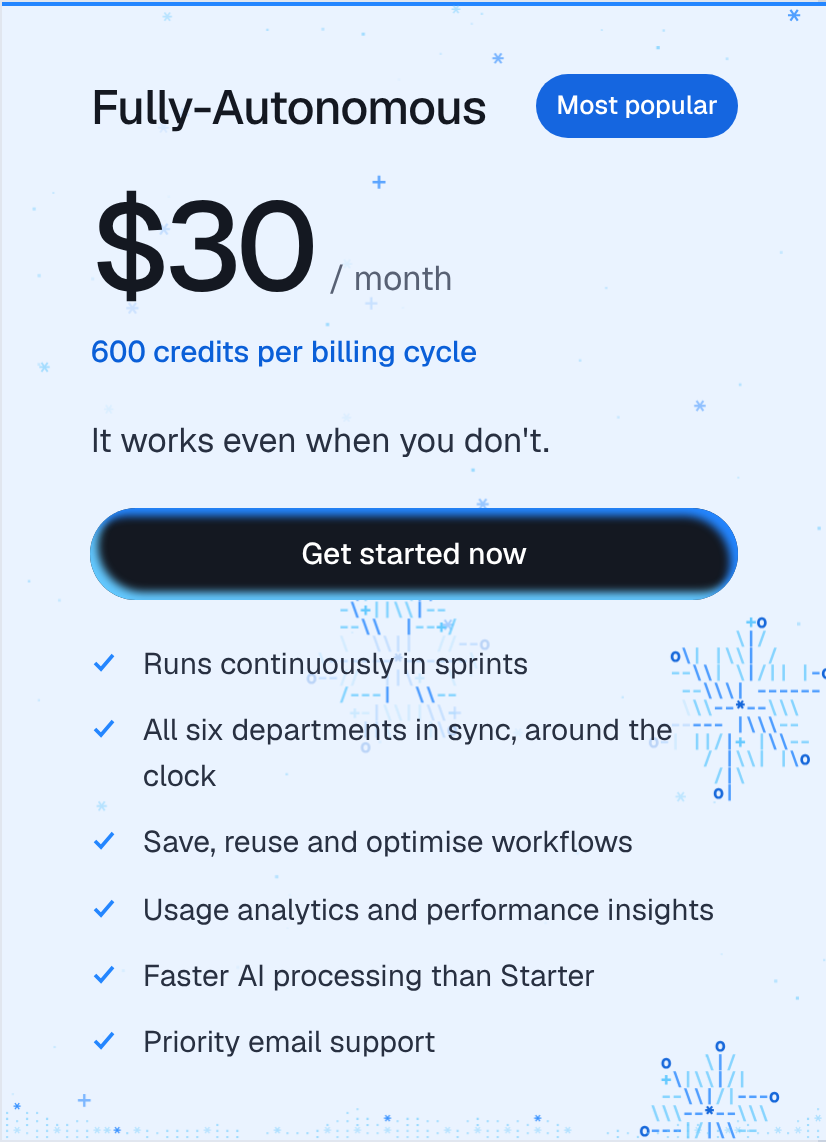
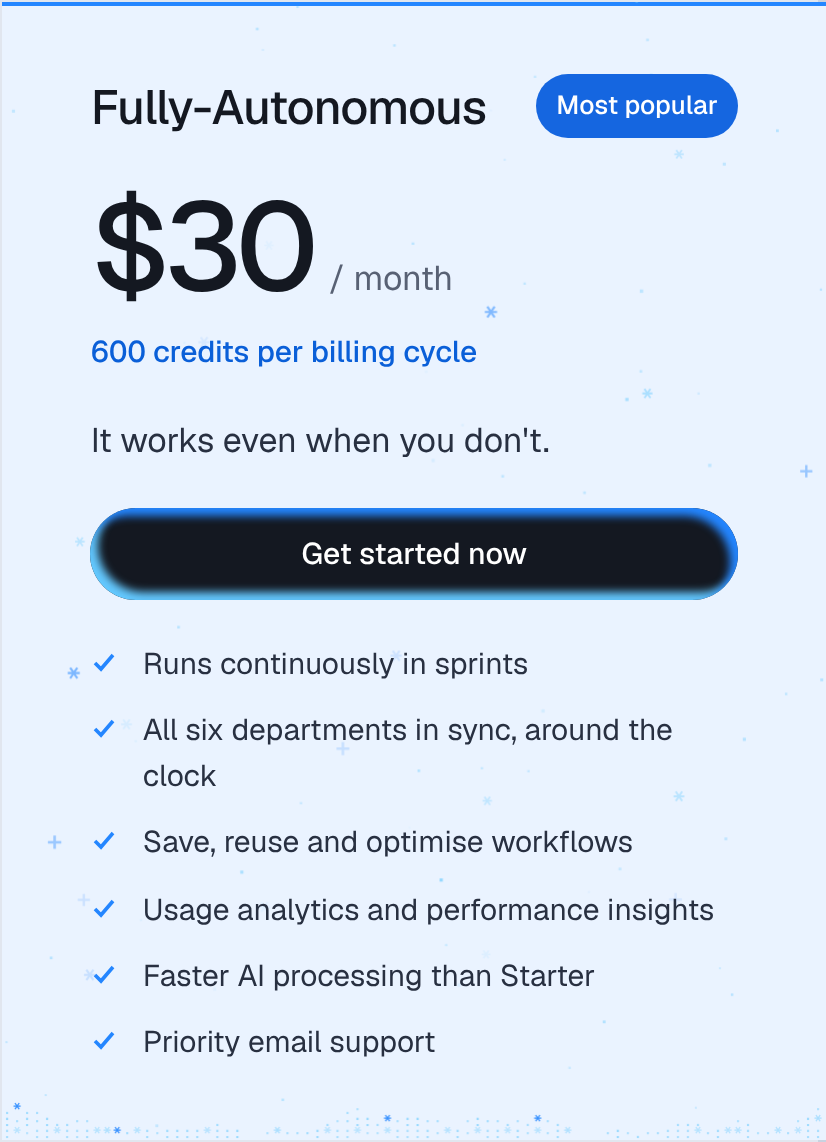
Remove the large crystal snowflakes from the pricing snowfall
Keep the small star flakes, fine dust, snowbank, pointer breeze and tap puff.

Claude-Session: https://claude.ai/code/session_015fR2GhnmayKSwNGE3HwvRf

diff --git a/index.html b/index.html
@@ -1806,14 +1806,12 @@ html.rv-on .rv.in { opacity: 1; transform: none; }
 
 
   // ================= POPULAR PLAN: ASCII snow drifting through the card =================
-  // Three depths of snow: fine dust far back, small star flakes in the middle, and a few large six-armed crystals up front.
-  // Each crystal is traced onto its own character grid (six arms, two pairs of branches on each, a heart and bright tips),
-  // and every stroke picks the glyph that follows it (- \ | /), so the crystals read as drawn, not stamped.
+  // Fine dust far back and small star flakes nearer, each depth falling and swaying at its own pace.
   // A soft bank of snow gathers along the bottom edge. The pointer is a breeze: flakes lean away and swirl in its wake;
   // a tap on the card throws up a puff of snow.
   (function snowfall() {
     const card = $('popPlan'), cv = $('popArt'); if (!card || !cv) return;
-    let S = null, st = 0, holes = [], dust = [], crystals = [], puffs = [];
+    let S = null, st = 0, holes = [], dust = [], puffs = [];
     const ptr = { x: -1e4, y: -1e4, vx: 0, on: false };
     let gust = 0;
     // where the card's words sit: snow behind them is dimmed so the text always reads
@@ -1835,51 +1833,9 @@ html.rv-on .rv.in { opacity: 1; transform: none; }
       f.ch = z > .78 ? (Math.random() > .45 ? '*' : '+') : z > .4 ? (Math.random() > .5 ? '*' : '·') : (Math.random() > .3 ? '.' : '·');
       return f;
     }
-    function newCrystal(c, top) {
-      const { W, H } = S, R = rnd(30, Math.min(54, W * .13));
-      c.R = R; c.x = rnd(W * .42, W - R * .6); c.y = top ? -R - rnd(0, H * .4) : rnd(R, H - R);
-      c.vx = 0; c.vy = 0; c.a = rnd(0, 1.05); c.spin = rnd(.12, .3) * (Math.random() > .5 ? 1 : -1);
-      c.fall = 7 + 14 * (R / 54); c.ph = rnd(0, 6.28);
-      // each crystal grows its own branches
-      c.br = [[rnd(.32, .42), rnd(.26, .36)], [rnd(.6, .7), rnd(.16, .24)]];
-      c.tip = Math.random() > .5;
-      return c;
-    }
     function seed() {
       const { W, H } = S, n = Math.min(150, Math.round(W * H / 2400));
       dust = Array.from({ length: n }, () => newFlake({}, false));
-      crystals = Array.from({ length: W < 360 ? 2 : 3 }, () => newCrystal({}, false));
-    }
-
-    // the glyph that follows a stroke: screen y runs down, so 45° is down-right
-    function stroke(a) {
-      const t = ((a % Math.PI) + Math.PI) % Math.PI, k = Math.round(t / (Math.PI / 4)) % 4;
-      return '-\\|/'[k];
-    }
-    // trace a crystal onto its own character grid: six arms, two pairs of branches on each, a heart and bright tips
-    const S60 = Math.PI / 3;
-    function trace(c, cw, chh) {
-      const cells = new Map();
-      const put = (x, y, ch, w) => {
-        const ix = Math.round(x / cw), iy = Math.round(y / chh), k = ix + ',' + iy, o = cells.get(k);
-        if (!o || w > o.w) cells.set(k, { ix, iy, ch, w });
-      };
-      const line = (x0, y0, ang, len, w) => {
-        const dx = Math.cos(ang), dy = Math.sin(ang), ch = stroke(ang), n = Math.ceil(len / (Math.min(cw, chh) * .45));
-        for (let i = 1; i <= n; i++) put(x0 + dx * len * i / n, y0 + dy * len * i / n, ch, w);
-        return [x0 + dx * len, y0 + dy * len];
-      };
-      for (let k = 0; k < 6; k++) {
-        const arm = c.a + k * S60, ax = Math.cos(arm), ay = Math.sin(arm);
-        const [tx, ty] = line(0, 0, arm, c.R * .9, 2);
-        for (const [at, len] of c.br) {
-          const bx = ax * c.R * at, by = ay * c.R * at;
-          line(bx, by, arm + S60 * .85, c.R * len, 1); line(bx, by, arm - S60 * .85, c.R * len, 1);
-        }
-        put(tx + ax * cw * .6, ty + ay * chh * .6, c.tip ? 'o' : '*', 3);
-      }
-      put(0, 0, '*', 4);
-      return cells.values();
     }
 
     function stepSnow(dt) {
@@ -1897,14 +1853,6 @@ html.rv-on .rv.in { opacity: 1; transform: none; }
         f.x += (breeze * (.4 + f.z) + Math.sin(st * f.sw + f.ph) * (5 + f.z * 9) + f.vx) * dt;
         f.y += (f.fall + f.vy) * dt;
         if (f.y > H - bankAt(f.x) + 2 || f.x < -30 || f.x > W + 30) newFlake(f, true);
-      }
-      for (const c of crystals) {
-        push(c, 2.4);
-        c.vx *= Math.pow(.3, dt); c.vy *= Math.pow(.3, dt);
-        c.x += (breeze * .5 + Math.sin(st * .4 + c.ph) * 7 + c.vx) * dt;
-        c.y += (c.fall + c.vy) * dt;
-        c.a += (c.spin + c.vx * .004) * dt;
-        if (c.y - c.R > H || c.x < -c.R * 2 || c.x > W + c.R * 2) newCrystal(c, true);
       }
       for (let i = puffs.length - 1; i >= 0; i--) {
         const p = puffs[i]; p.t += dt; p.vx *= Math.pow(.15, dt); p.vy = p.vy * Math.pow(.15, dt) + 30 * dt;
@@ -1925,18 +1873,6 @@ html.rv-on .rv.in { opacity: 1; transform: none; }
         ctx.fillStyle = f.z > .78 ? C.accent : C.accent2;
         ctx.globalAlpha = (.28 + f.z * .5) * tw * dim;
         ctx.fillText(f.ch, f.x, f.y);
-      }
-      // the crystals, each on its own grid so they glide instead of stepping
-      const fs = 9, cw = fs * .6, chh = fs * .95, sparkle = Math.floor(st * 1.5);
-      ctx.font = `600 ${fs}px ${MONO}`;
-      for (const c of crystals) {
-        for (const o of trace(c, cw, chh)) {
-          const x = c.x + o.ix * cw, y = c.y + o.iy * chh; if (x < -4 || x > W + 4 || y < -4 || y > H + 4) continue;
-          const dim = behindText(x, y) ? .22 : 1, glint = o.w < 3 && hash(o.ix + sparkle * 7, o.iy - sparkle * 3, c.ph * 10) > .95;
-          ctx.fillStyle = glint ? C.accent2 : o.w >= 3 ? C.accentInk : o.w === 2 ? C.accent : C.accent2;
-          ctx.globalAlpha = (glint ? 1 : o.w >= 3 ? .95 : o.w === 2 ? .8 : .75) * dim;
-          ctx.fillText(glint ? '+' : o.ch, x, y);
-        }
       }
       // a puff of snow where the card was tapped
       for (const p of puffs) {

diff --git a/mworld-landing.html b/mworld-landing.html
@@ -1798,14 +1798,12 @@ html.rv-on .rv.in { opacity: 1; transform: none; }
 
 
   // ================= POPULAR PLAN: ASCII snow drifting through the card =================
-  // Three depths of snow: fine dust far back, small star flakes in the middle, and a few large six-armed crystals up front.
-  // Each crystal is traced onto its own character grid (six arms, two pairs of branches on each, a heart and bright tips),
-  // and every stroke picks the glyph that follows it (- \ | /), so the crystals read as drawn, not stamped.
+  // Fine dust far back and small star flakes nearer, each depth falling and swaying at its own pace.
   // A soft bank of snow gathers along the bottom edge. The pointer is a breeze: flakes lean away and swirl in its wake;
   // a tap on the card throws up a puff of snow.
   (function snowfall() {
     const card = $('popPlan'), cv = $('popArt'); if (!card || !cv) return;
-    let S = null, st = 0, holes = [], dust = [], crystals = [], puffs = [];
+    let S = null, st = 0, holes = [], dust = [], puffs = [];
     const ptr = { x: -1e4, y: -1e4, vx: 0, on: false };
     let gust = 0;
     // where the card's words sit: snow behind them is dimmed so the text always reads
@@ -1827,51 +1825,9 @@ html.rv-on .rv.in { opacity: 1; transform: none; }
       f.ch = z > .78 ? (Math.random() > .45 ? '*' : '+') : z > .4 ? (Math.random() > .5 ? '*' : '·') : (Math.random() > .3 ? '.' : '·');
       return f;
     }
-    function newCrystal(c, top) {
-      const { W, H } = S, R = rnd(30, Math.min(54, W * .13));
-      c.R = R; c.x = rnd(W * .42, W - R * .6); c.y = top ? -R - rnd(0, H * .4) : rnd(R, H - R);
-      c.vx = 0; c.vy = 0; c.a = rnd(0, 1.05); c.spin = rnd(.12, .3) * (Math.random() > .5 ? 1 : -1);
-      c.fall = 7 + 14 * (R / 54); c.ph = rnd(0, 6.28);
-      // each crystal grows its own branches
-      c.br = [[rnd(.32, .42), rnd(.26, .36)], [rnd(.6, .7), rnd(.16, .24)]];
-      c.tip = Math.random() > .5;
-      return c;
-    }
     function seed() {
       const { W, H } = S, n = Math.min(150, Math.round(W * H / 2400));
       dust = Array.from({ length: n }, () => newFlake({}, false));
-      crystals = Array.from({ length: W < 360 ? 2 : 3 }, () => newCrystal({}, false));
-    }
-
-    // the glyph that follows a stroke: screen y runs down, so 45° is down-right
-    function stroke(a) {
-      const t = ((a % Math.PI) + Math.PI) % Math.PI, k = Math.round(t / (Math.PI / 4)) % 4;
-      return '-\\|/'[k];
-    }
-    // trace a crystal onto its own character grid: six arms, two pairs of branches on each, a heart and bright tips
-    const S60 = Math.PI / 3;
-    function trace(c, cw, chh) {
-      const cells = new Map();
-      const put = (x, y, ch, w) => {
-        const ix = Math.round(x / cw), iy = Math.round(y / chh), k = ix + ',' + iy, o = cells.get(k);
-        if (!o || w > o.w) cells.set(k, { ix, iy, ch, w });
-      };
-      const line = (x0, y0, ang, len, w) => {
-        const dx = Math.cos(ang), dy = Math.sin(ang), ch = stroke(ang), n = Math.ceil(len / (Math.min(cw, chh) * .45));
-        for (let i = 1; i <= n; i++) put(x0 + dx * len * i / n, y0 + dy * len * i / n, ch, w);
-        return [x0 + dx * len, y0 + dy * len];
-      };
-      for (let k = 0; k < 6; k++) {
-        const arm = c.a + k * S60, ax = Math.cos(arm), ay = Math.sin(arm);
-        const [tx, ty] = line(0, 0, arm, c.R * .9, 2);
-        for (const [at, len] of c.br) {
-          const bx = ax * c.R * at, by = ay * c.R * at;
-          line(bx, by, arm + S60 * .85, c.R * len, 1); line(bx, by, arm - S60 * .85, c.R * len, 1);
-        }
-        put(tx + ax * cw * .6, ty + ay * chh * .6, c.tip ? 'o' : '*', 3);
-      }
-      put(0, 0, '*', 4);
-      return cells.values();
     }
 
     function stepSnow(dt) {
@@ -1889,14 +1845,6 @@ html.rv-on .rv.in { opacity: 1; transform: none; }
         f.x += (breeze * (.4 + f.z) + Math.sin(st * f.sw + f.ph) * (5 + f.z * 9) + f.vx) * dt;
         f.y += (f.fall + f.vy) * dt;
         if (f.y > H - bankAt(f.x) + 2 || f.x < -30 || f.x > W + 30) newFlake(f, true);
-      }
-      for (const c of crystals) {
-        push(c, 2.4);
-        c.vx *= Math.pow(.3, dt); c.vy *= Math.pow(.3, dt);
-        c.x += (breeze * .5 + Math.sin(st * .4 + c.ph) * 7 + c.vx) * dt;
-        c.y += (c.fall + c.vy) * dt;
-        c.a += (c.spin + c.vx * .004) * dt;
-        if (c.y - c.R > H || c.x < -c.R * 2 || c.x > W + c.R * 2) newCrystal(c, true);
       }
       for (let i = puffs.length - 1; i >= 0; i--) {
         const p = puffs[i]; p.t += dt; p.vx *= Math.pow(.15, dt); p.vy = p.vy * Math.pow(.15, dt) + 30 * dt;
@@ -1917,18 +1865,6 @@ html.rv-on .rv.in { opacity: 1; transform: none; }
         ctx.fillStyle = f.z > .78 ? C.accent : C.accent2;
         ctx.globalAlpha = (.28 + f.z * .5) * tw * dim;
         ctx.fillText(f.ch, f.x, f.y);
-      }
-      // the crystals, each on its own grid so they glide instead of stepping
-      const fs = 9, cw = fs * .6, chh = fs * .95, sparkle = Math.floor(st * 1.5);
-      ctx.font = `600 ${fs}px ${MONO}`;
-      for (const c of crystals) {
-        for (const o of trace(c, cw, chh)) {
-          const x = c.x + o.ix * cw, y = c.y + o.iy * chh; if (x < -4 || x > W + 4 || y < -4 || y > H + 4) continue;
-          const dim = behindText(x, y) ? .22 : 1, glint = o.w < 3 && hash(o.ix + sparkle * 7, o.iy - sparkle * 3, c.ph * 10) > .95;
-          ctx.fillStyle = glint ? C.accent2 : o.w >= 3 ? C.accentInk : o.w === 2 ? C.accent : C.accent2;
-          ctx.globalAlpha = (glint ? 1 : o.w >= 3 ? .95 : o.w === 2 ? .8 : .75) * dim;
-          ctx.fillText(glint ? '+' : o.ch, x, y);
-        }
       }
       // a puff of snow where the card was tapped
       for (const p of puffs) {

diff --git a/src/snowfall.js b/src/snowfall.js
@@ -1,12 +1,10 @@
   // ================= POPULAR PLAN: ASCII snow drifting through the card =================
-  // Three depths of snow: fine dust far back, small star flakes in the middle, and a few large six-armed crystals up front.
-  // Each crystal is traced onto its own character grid (six arms, two pairs of branches on each, a heart and bright tips),
-  // and every stroke picks the glyph that follows it (- \ | /), so the crystals read as drawn, not stamped.
+  // Fine dust far back and small star flakes nearer, each depth falling and swaying at its own pace.
   // A soft bank of snow gathers along the bottom edge. The pointer is a breeze: flakes lean away and swirl in its wake;
   // a tap on the card throws up a puff of snow.
   (function snowfall() {
     const card = $('popPlan'), cv = $('popArt'); if (!card || !cv) return;
-    let S = null, st = 0, holes = [], dust = [], crystals = [], puffs = [];
+    let S = null, st = 0, holes = [], dust = [], puffs = [];
     const ptr = { x: -1e4, y: -1e4, vx: 0, on: false };
     let gust = 0;
     // where the card's words sit: snow behind them is dimmed so the text always reads
@@ -28,51 +26,9 @@
       f.ch = z > .78 ? (Math.random() > .45 ? '*' : '+') : z > .4 ? (Math.random() > .5 ? '*' : '·') : (Math.random() > .3 ? '.' : '·');
       return f;
     }
-    function newCrystal(c, top) {
-      const { W, H } = S, R = rnd(30, Math.min(54, W * .13));
-      c.R = R; c.x = rnd(W * .42, W - R * .6); c.y = top ? -R - rnd(0, H * .4) : rnd(R, H - R);
-      c.vx = 0; c.vy = 0; c.a = rnd(0, 1.05); c.spin = rnd(.12, .3) * (Math.random() > .5 ? 1 : -1);
-      c.fall = 7 + 14 * (R / 54); c.ph = rnd(0, 6.28);
-      // each crystal grows its own branches
-      c.br = [[rnd(.32, .42), rnd(.26, .36)], [rnd(.6, .7), rnd(.16, .24)]];
-      c.tip = Math.random() > .5;
-      return c;
-    }
     function seed() {
       const { W, H } = S, n = Math.min(150, Math.round(W * H / 2400));
       dust = Array.from({ length: n }, () => newFlake({}, false));
-      crystals = Array.from({ length: W < 360 ? 2 : 3 }, () => newCrystal({}, false));
-    }
-
-    // the glyph that follows a stroke: screen y runs down, so 45° is down-right
-    function stroke(a) {
-      const t = ((a % Math.PI) + Math.PI) % Math.PI, k = Math.round(t / (Math.PI / 4)) % 4;
-      return '-\\|/'[k];
-    }
-    // trace a crystal onto its own character grid: six arms, two pairs of branches on each, a heart and bright tips
-    const S60 = Math.PI / 3;
-    function trace(c, cw, chh) {
-      const cells = new Map();
-      const put = (x, y, ch, w) => {
-        const ix = Math.round(x / cw), iy = Math.round(y / chh), k = ix + ',' + iy, o = cells.get(k);
-        if (!o || w > o.w) cells.set(k, { ix, iy, ch, w });
-      };
-      const line = (x0, y0, ang, len, w) => {
-        const dx = Math.cos(ang), dy = Math.sin(ang), ch = stroke(ang), n = Math.ceil(len / (Math.min(cw, chh) * .45));
-        for (let i = 1; i <= n; i++) put(x0 + dx * len * i / n, y0 + dy * len * i / n, ch, w);
-        return [x0 + dx * len, y0 + dy * len];
-      };
-      for (let k = 0; k < 6; k++) {
-        const arm = c.a + k * S60, ax = Math.cos(arm), ay = Math.sin(arm);
-        const [tx, ty] = line(0, 0, arm, c.R * .9, 2);
-        for (const [at, len] of c.br) {
-          const bx = ax * c.R * at, by = ay * c.R * at;
-          line(bx, by, arm + S60 * .85, c.R * len, 1); line(bx, by, arm - S60 * .85, c.R * len, 1);
-        }
-        put(tx + ax * cw * .6, ty + ay * chh * .6, c.tip ? 'o' : '*', 3);
-      }
-      put(0, 0, '*', 4);
-      return cells.values();
     }
 
     function stepSnow(dt) {
@@ -90,14 +46,6 @@
         f.x += (breeze * (.4 + f.z) + Math.sin(st * f.sw + f.ph) * (5 + f.z * 9) + f.vx) * dt;
         f.y += (f.fall + f.vy) * dt;
         if (f.y > H - bankAt(f.x) + 2 || f.x < -30 || f.x > W + 30) newFlake(f, true);
-      }
-      for (const c of crystals) {
-        push(c, 2.4);
-        c.vx *= Math.pow(.3, dt); c.vy *= Math.pow(.3, dt);
-        c.x += (breeze * .5 + Math.sin(st * .4 + c.ph) * 7 + c.vx) * dt;
-        c.y += (c.fall + c.vy) * dt;
-        c.a += (c.spin + c.vx * .004) * dt;
-        if (c.y - c.R > H || c.x < -c.R * 2 || c.x > W + c.R * 2) newCrystal(c, true);
       }
       for (let i = puffs.length - 1; i >= 0; i--) {
         const p = puffs[i]; p.t += dt; p.vx *= Math.pow(.15, dt); p.vy = p.vy * Math.pow(.15, dt) + 30 * dt;
@@ -118,18 +66,6 @@
         ctx.fillStyle = f.z > .78 ? C.accent : C.accent2;
         ctx.globalAlpha = (.28 + f.z * .5) * tw * dim;
         ctx.fillText(f.ch, f.x, f.y);
-      }
-      // the crystals, each on its own grid so they glide instead of stepping
-      const fs = 9, cw = fs * .6, chh = fs * .95, sparkle = Math.floor(st * 1.5);
-      ctx.font = `600 ${fs}px ${MONO}`;
-      for (const c of crystals) {
-        for (const o of trace(c, cw, chh)) {
-          const x = c.x + o.ix * cw, y = c.y + o.iy * chh; if (x < -4 || x > W + 4 || y < -4 || y > H + 4) continue;
-          const dim = behindText(x, y) ? .22 : 1, glint = o.w < 3 && hash(o.ix + sparkle * 7, o.iy - sparkle * 3, c.ph * 10) > .95;
-          ctx.fillStyle = glint ? C.accent2 : o.w >= 3 ? C.accentInk : o.w === 2 ? C.accent : C.accent2;
-          ctx.globalAlpha = (glint ? 1 : o.w >= 3 ? .95 : o.w === 2 ? .8 : .75) * dim;
-          ctx.fillText(glint ? '+' : o.ch, x, y);
-        }
       }
       // a puff of snow where the card was tapped
       for (const p of puffs) {

diff --git a/README.md b/README.md
@@ -16,7 +16,7 @@ Open `index.html` in a browser. It is self-contained: one HTML file with inline 
 - **Who does the work**: prompt → AO globe → dashboard, then three isometric SVG miniatures: the tower (AI departments), the handoff (people in the loop), the district (businesses trading with each other).
 - **Departments**: the blue field with an ASCII org chart and department tabs.
 - **What is an Autonomous Organisation**: comparison table and the intro video link.
-- **Pricing**: Starter, Semi-Autonomous ($10), Fully-Autonomous ($30) with ASCII snow drifting through the popular plan: six-armed crystals, star flakes and a snowbank; the pointer blows the snow about and a tap throws up a puff.
+- **Pricing**: Starter, Semi-Autonomous ($10), Fully-Autonomous ($30) with ASCII snow drifting through the popular plan: star flakes, fine dust and a snowbank; the pointer blows the snow about and a tap throws up a puff.
 - **Micro-interactions**: a ripple from the point of every press, springy hover and press states, pop-ins for chips, toggles and tabs, a settle-in for changed text, scroll reveals, a nav that underlines the section being read, a shaking field for form errors, and the pinwheel logo turning on hover. All of it turns off under reduced motion.
 - **FAQ, closing sunrise, contact, footer** with the "paint the word" ASCII wordmark (stroke the letters to paint them blue; finish the word and it resets).
 
